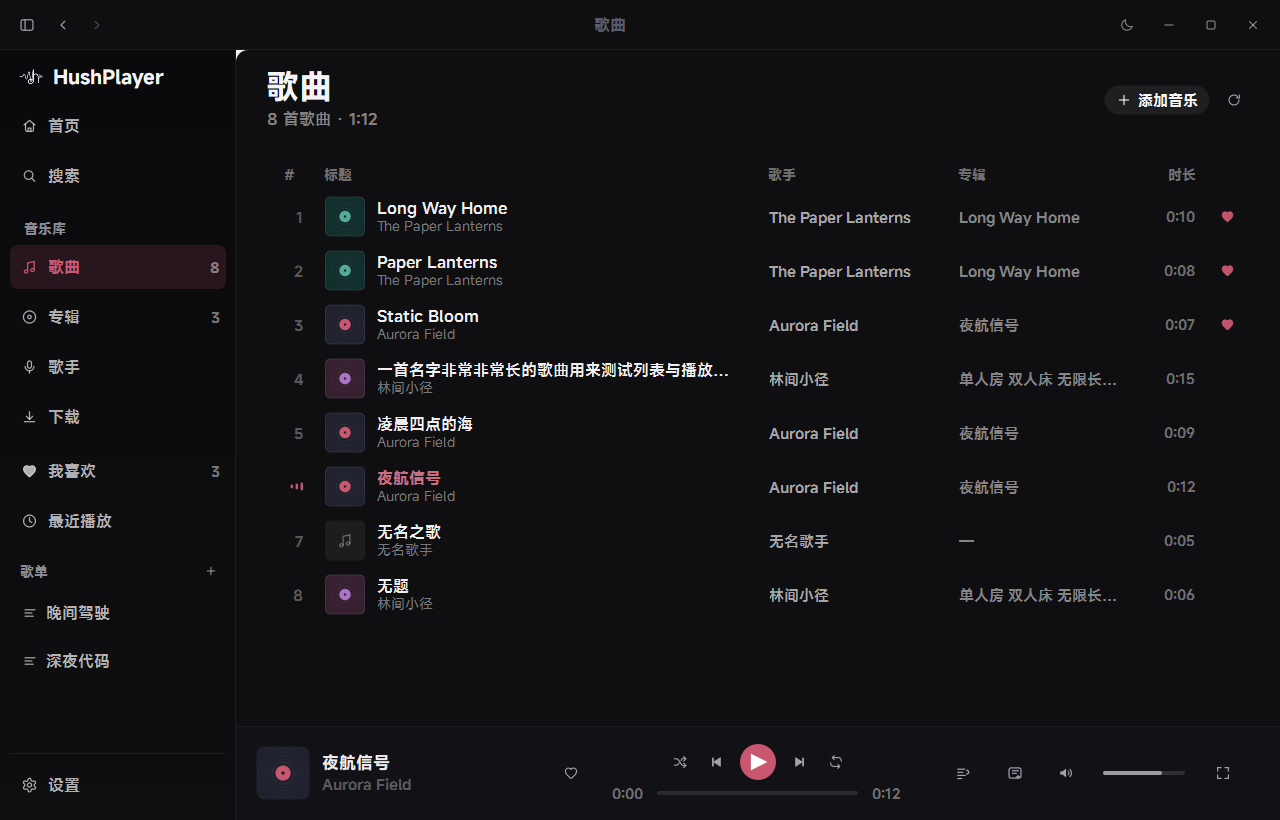
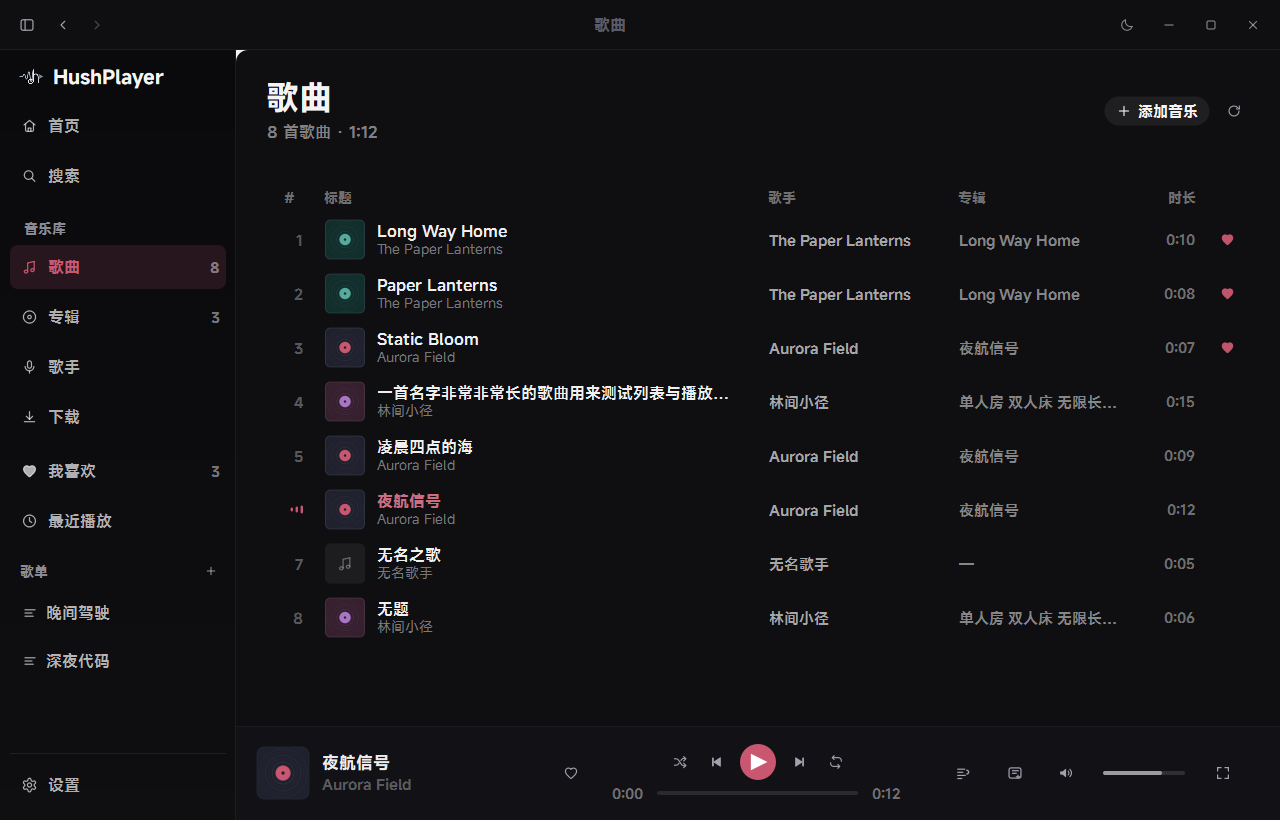
fix(1.0.25): 放大字号后的文字重叠与导航图标对齐（改为按字体度量排布）

diff --git a/hushplayer/ui/pages/page.py b/hushplayer/ui/pages/page.py
@@ -2,7 +2,7 @@
 
 from __future__ import annotations
 
-from PySide6.QtCore import QEasingCurve, QRectF, Qt, QVariantAnimation, Signal
+from PySide6.QtCore import QRect, QEasingCurve, QRectF, Qt, QVariantAnimation, Signal
 from PySide6.QtGui import QFontMetrics, QPainter, QPen
 from PySide6.QtWidgets import (
     QFrame,
@@ -39,7 +39,8 @@ class PageHeader(QWidget):
         self._trailing_layout.setContentsMargins(0, 0, 0, 0)
         self._trailing_layout.setSpacing(8)
         self._trailing_layout.setAlignment(Qt.AlignRight | Qt.AlignVCenter)
-        self.setFixedHeight(72 if large else 56)
+        self._title_large = large
+        self._sync_height()
         self.setSizePolicy(QSizePolicy.Expanding, QSizePolicy.Fixed)
 
     def add_action(self, widget: QWidget) -> None:
@@ -58,6 +59,26 @@ class PageHeader(QWidget):
         width = max(150, min(self.width() // 2, self.trailing.sizeHint().width() + 6))
         self.trailing.setGeometry(self.width() - width, 0, width, self.height())
 
+    def _fonts(self):
+        title_font = theme().font(21.0 if self._large else 15.0, 700)
+        sub_font = theme().font(9.4, 500)
+        return title_font, sub_font
+
+    def _content_height(self) -> int:
+        title_font, sub_font = self._fonts()
+        height = QFontMetrics(title_font).height()
+        if self._subtitle:
+            height += 2 + QFontMetrics(sub_font).height()
+        return height
+
+    def _sync_height(self) -> None:
+        # The header must grow with the type scale: a fixed 72px strip made the
+        # title overlap its subtitle once fonts got bigger.
+        base = 72 if self._large else 56
+        wanted = max(base, self._content_height() + (28 if self._large else 18))
+        if wanted != self.height():
+            self.setFixedHeight(wanted)
+
     def _text_width(self) -> int:
         return max(80, self.width() - self.trailing.sizeHint().width() - 22)
 
@@ -65,33 +86,34 @@ class PageHeader(QWidget):
         palette = theme().palette
         painter = QPainter(self)
         painter.setRenderHint(QPainter.Antialiasing, True)
-        title_font = theme().font(21.0 if self._large else 15.0, 700)
+        title_font, sub_font = self._fonts()
         metrics = QFontMetrics(title_font)
         width = self._text_width()
         title = metrics.elidedText(self._title, Qt.ElideRight, width)
+        title_h = metrics.height()
+        sub_h = QFontMetrics(sub_font).height() if self._subtitle else 0
+        total = title_h + (2 + sub_h if self._subtitle else 0)
+        top = max(0, int((self.height() - total) / 2) - (2 if self._large else 0))
         painter.setFont(title_font)
         painter.setPen(QPen(qcolor(palette.text)))
+        painter.drawText(
+            QRectF(0, top, width, title_h),
+            int(Qt.AlignLeft | Qt.AlignVCenter),
+            title,
+        )
         if self._subtitle:
-            painter.drawText(
-                QRectF(0, 4, width, self.height() - 32),
-                int(Qt.AlignLeft | Qt.AlignBottom),
-                title,
-            )
-            sub_font = theme().font(9.4, 500)
             painter.setFont(sub_font)
             painter.setPen(QPen(rgba(palette.text, 0.5)))
             painter.drawText(
-                QRectF(1, self.height() - 26, width, 18),
+                QRectF(1, top + title_h + 2, width, sub_h),
                 int(Qt.AlignLeft | Qt.AlignVCenter),
                 QFontMetrics(sub_font).elidedText(self._subtitle, Qt.ElideRight, width),
             )
-        else:
-            painter.drawText(
-                QRectF(0, 0, width, self.height()),
-                int(Qt.AlignLeft | Qt.AlignVCenter),
-                title,
-            )
         painter.end()
+
+    def showEvent(self, event) -> None:  # noqa: N802
+        super().showEvent(event)
+        self._sync_height()
 
 
 class Page(QWidget):
@@ -179,7 +201,8 @@ class EmptyState(QWidget):
             self.action = TextButton(action_text, accent=True, size=32)
             self.action.setParent(self)
             self.action.clicked.connect(self.action_clicked)
-        self.setMinimumHeight(150 if compact else 260)
+        base_min = 150 if compact else 260
+        self.setMinimumHeight(base_min + (44 if action_text else 0))
 
     def set_text(self, title: str, description: str = "") -> None:
         self._title = title
@@ -192,43 +215,69 @@ class EmptyState(QWidget):
             self.action.set_text(text)
             self.action.setVisible(bool(text))
 
+    def _top(self) -> int:
+        return max(6, int((self.height() - self._block_height()) / 2))
+
     def resizeEvent(self, event) -> None:  # noqa: N802
         super().resizeEvent(event)
         if self.action is not None:
             hint = self.action.sizeHint()
             self.action.setGeometry(
                 (self.width() - hint.width()) // 2,
-                int(self.height() / 2) + 58,
+                self._top() + self._block_height() + 12,
                 hint.width(),
                 hint.height(),
             )
+
+    def _block_height(self) -> int:
+        icon_size = self._scaled_icon()
+        title_font = theme().font(11.0 if self._compact else 13.0, 600)
+        height = icon_size + 8 + QFontMetrics(title_font).height()
+        if self._description:
+            sub_font = theme().font(9.2, 400)
+            metrics = QFontMetrics(sub_font)
+            useful = max(120, self.width() - 80)
+            rect = metrics.boundingRect(
+                QRect(0, 0, useful, 400),
+                int(Qt.TextWordWrap),
+                self._description,
+            )
+            height += 4 + rect.height()
+        return height
+
+    def _scaled_icon(self) -> int:
+        return theme().scaled(40 if self._compact else 52, factor=0.6)
 
     def paintEvent(self, event) -> None:  # noqa: N802
         palette = theme().palette
         painter = QPainter(self)
         painter.setRenderHint(QPainter.Antialiasing, True)
-        center_y = self.height() / 2 - (20 if self._compact else 40)
-        icon_size = 40 if self._compact else 52
+        icon_size = self._scaled_icon()
+        title_font = theme().font(11.0 if self._compact else 13.0, 600)
+        title_metrics = QFontMetrics(title_font)
+        sub_font = theme().font(9.2, 400)
+        sub_metrics = QFontMetrics(sub_font)
+        top = self._top()
         draw_icon(
             painter,
             self._icon,
-            QRectF(self.width() / 2 - icon_size / 2, center_y - icon_size, icon_size, icon_size),
+            QRectF(self.width() / 2 - icon_size / 2, top, icon_size, icon_size),
             rgba(palette.text, 0.16),
         )
-        title_font = theme().font(11.0 if self._compact else 13.0, 600)
+        y = top + icon_size + 8
         painter.setFont(title_font)
         painter.setPen(QPen(rgba(palette.text, 0.62)))
         painter.drawText(
-            QRectF(20, center_y + 2, self.width() - 40, 26),
-            int(Qt.AlignHCenter | Qt.AlignTop),
+            QRectF(20, y, self.width() - 40, title_metrics.height()),
+            int(Qt.AlignHCenter | Qt.AlignVCenter),
             self._title,
         )
         if self._description:
-            sub_font = theme().font(9.2, 400)
+            y += title_metrics.height() + 4
             painter.setFont(sub_font)
             painter.setPen(QPen(rgba(palette.text, 0.40)))
             painter.drawText(
-                QRectF(40, center_y + 30, self.width() - 80, 40),
+                QRectF(40, y, self.width() - 80, sub_metrics.height() * 3),
                 int(Qt.AlignHCenter | Qt.AlignTop | Qt.TextWordWrap),
                 self._description,
             )

diff --git a/hushplayer/ui/widgets/playerbar.py b/hushplayer/ui/widgets/playerbar.py
@@ -74,50 +74,53 @@ class TrackInfo(QWidget):
         painter.setRenderHint(QPainter.Antialiasing, True)
         rect = QRectF(self.rect())
 
-        # Title keeps the whole width: the source badge (or the transient
-        # buffering hint) lives on the second line so long song names are not
-        # cut short by it.
         title_font = theme().font(10.2, 600)
-        painter.setFont(title_font)
-        painter.setPen(QPen(rgba(palette.text, 0.96)))
-        metrics = QFontMetrics(title_font)
-        painter.drawText(
-            QRectF(0, rect.center().y() - 22, rect.width() - 4, 22),
-            int(Qt.AlignLeft | Qt.AlignVCenter),
-            metrics.elidedText(self._title or "未在播放", Qt.ElideRight, int(max(10, rect.width() - 4))),
-        )
-
+        title_metrics = QFontMetrics(title_font)
+        artist_font = theme().font(8.8, 500)
+        artist_metrics = QFontMetrics(artist_font)
         badge_text = self._status or self._badge
         badge_width = 0.0
         if badge_text:
             font = theme().font(7.2, 600)
             badge_width = QFontMetrics(font).horizontalAdvance(badge_text) + 14
 
-        artist_font = theme().font(8.8, 500)
+        # Two metric-driven rows, vertically centred: fixed offsets used to make
+        # the title and subtitle collide once the type scale grew.
+        row_gap = 2
+        total = title_metrics.height() + row_gap + artist_metrics.height()
+        top = max(0, int((rect.height() - total) / 2))
+        painter.setFont(title_font)
+        painter.setPen(QPen(rgba(palette.text, 0.96)))
+        painter.drawText(
+            QRectF(0, top, max(10.0, rect.width() - 4), title_metrics.height()),
+            int(Qt.AlignLeft | Qt.AlignVCenter),
+            title_metrics.elidedText(
+                self._title or "未在播放", Qt.ElideRight, int(max(10, rect.width() - 4))
+            ),
+        )
+
+        y = top + title_metrics.height() + row_gap
         painter.setFont(artist_font)
         painter.setPen(QPen(rgba(palette.text, 0.32 + 0.28 * self._hover.value)))
         artist_width = rect.width() - badge_width - (8 if badge_width else 0)
-        artist_metrics = QFontMetrics(artist_font)
         artist_text = artist_metrics.elidedText(
             self._artist, Qt.ElideRight, int(max(10, artist_width))
         )
         painter.drawText(
-            QRectF(0, rect.center().y() + 1, max(10, artist_width), 19),
+            QRectF(0, y, max(10, artist_width), artist_metrics.height()),
             int(Qt.AlignLeft | Qt.AlignVCenter),
             artist_text,
         )
         if badge_text and badge_width:
             from .common import paint_badge
 
-            # Keep the badge next to the artist instead of pinning it to the far
-            # right of a wide info block, where it read as a disconnected chip.
             badge_x = min(
                 rect.width() - badge_width,
                 artist_metrics.horizontalAdvance(artist_text) + 8,
             )
             paint_badge(
                 painter,
-                QRectF(badge_x, rect.center().y() + 4, badge_width, 16),
+                QRectF(badge_x, y + 1, badge_width, max(14, artist_metrics.height())),
                 badge_text,
                 tone="accent" if self._status else "",
             )

diff --git a/hushplayer/ui/widgets/sidebar.py b/hushplayer/ui/widgets/sidebar.py
@@ -170,21 +170,23 @@ class SidebarItem(QAbstractButton):
         )
         if self._selected:
             color = qcolor(palette.accent)
-        icon_size = 17
+        icon_size = theme().scaled(17, factor=1.0)
         if self._collapsed:
             icon_rect = QRectF(0, 0, icon_size, icon_size)
             icon_rect.moveCenter(rect.center())
         else:
             icon_rect = QRectF(0, 0, icon_size, icon_size)
-            icon_rect.moveCenter(QPointF(rect.x() + 11 + icon_size / 2, rect.center().y()))
+            pad = theme().scaled(11, factor=1.0)
+            icon_rect.moveCenter(QPointF(rect.x() + pad + icon_size / 2, rect.center().y()))
         icons.draw(painter, self.entry.icon, icon_rect, color)
 
         if not self._collapsed:
             font = theme().font(9.6, 600 if self._selected else 500)
             painter.setFont(font)
             painter.setPen(QPen(color))
-            text_x = rect.x() + 38
-            available = rect.width() - 44
+            pad = theme().scaled(11, factor=1.0)
+            text_x = rect.x() + pad + icon_size + theme().scaled(10, factor=1.0)
+            available = rect.width() - (text_x - rect.x()) - 6
             if self._badge:
                 badge_font = theme().font(8.2, 600)
                 badge_width = QFontMetrics(badge_font).horizontalAdvance(self._badge) + 14

diff --git a/tools/probe_r27_scale.py b/tools/probe_r27_scale.py
@@ -1,0 +1,25 @@
+import os, sys
+sys.path.insert(0, ".")
+os.environ["HUSHPLAYER_DATA_DIR"] = os.path.abspath("artifacts/qa/r27/data")
+os.environ["HUSHPLAYER_TYPE_SCALE"] = "1.5"
+os.environ["HUSH_CONSOLE"] = "0"
+from PySide6.QtCore import QTimer
+from PySide6.QtWidgets import QApplication
+from hushplayer.app import HushApp
+from hushplayer.ui.context import ctx
+
+app = QApplication(sys.argv)
+hush = HushApp(app); hush.start()
+win = ctx().window
+
+def shot():
+    win.grab().save("artifacts/qa/r27/home_empty_150.png")
+    win.navigate("settings")
+    app.processEvents()
+    win.grab().save("artifacts/qa/r27/settings_150.png")
+    print("RESULT PASS", flush=True)
+    app.quit()
+
+QTimer.singleShot(900, shot)
+app.exec()
+hush.shutdown()

diff --git a/hushplayer/version.py b/hushplayer/version.py
@@ -4,7 +4,7 @@ from __future__ import annotations
 
 APP_NAME = "HushPlayer"
 APP_ID = "com.hushplayer.desktop"
-VERSION = "1.0.24"
+VERSION = "1.0.25"
 BUILD_CHANNEL = "stable"
 VERSION_TUPLE = tuple(int(part) for part in VERSION.split("."))
 

diff --git a/docs/CHANGELOG.md b/docs/CHANGELOG.md
@@ -1,5 +1,15 @@
 # Changelog
 
+## v1.0.25 — 2026-10-09
+
+放大字号后出现的文字重叠与错位。
+
+### 修复
+- **所有自绘标题改为按字体度量排布**：`PageHeader`（页面标题/副标题）、`EmptyState`（欢迎页图标/标题/说明/按钮）、播放栏 `TrackInfo`（歌名/歌手/徽章）不再用固定像素偏移，改为 `QFontMetrics.height()` 计算行高并整体居中，因此字号放大到 180% 也不会互相压住。
+- **空状态按钮位置**：按钮原来固定在 `height/2 + 58`，字号变大后会压在说明文字上；现在跟在说明文字下方 12px。
+- **导航图标随字号缩放**：侧栏与设置分区列表的图标尺寸、图标列宽、文字起始位置都由类型缩放换算（1.5 倍时图标 17→26px、行高 32→43px），图标与文字始终同一条轴线。
+- 修复 `hushplayer/ui/pages/page.py` 缺少 `QRect` 导入导致自绘异常的问题。
+
 ## v1.0.24 — 2026-10-09
 
 1440p 下字体仍然偏小：改为「整数像素 + 类型缩放」方案。

diff --git a/docs/TEST_REPORT.md b/docs/TEST_REPORT.md
@@ -269,3 +269,10 @@ $ .venv\Scripts\python.exe -m pytest -q
[1 lines of base64/hex data omitted]
 - 启动日志：`界面缩放：100%（QT_SCALE_FACTOR=1.0）`、`应用主题：system → dark（字号缩放 ×1.50）`、窗口 2560×1392、单实例拦截、退出干净。
 - 截图 `docs/screenshots/packaged_dark.png`（2560×1392，1.5 类型缩放）。
+
+
+### 1.0.25 文字重叠修复
+
+- 全量测试 **181 passed / 0 failed / 0 skipped**，41.06 s（`artifacts/junit_round28.xml`）。
+- 自绘文字（PageHeader / EmptyState / 播放栏信息区 / 导航图标）改为按 `QFontMetrics` 计算行高与居中，字号放大到 150% 不再互相遮挡。
[1 lines of base64/hex data omitted]
